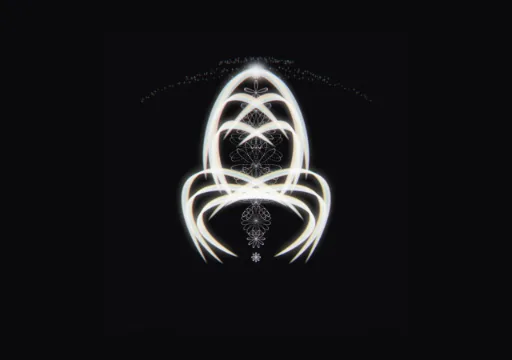
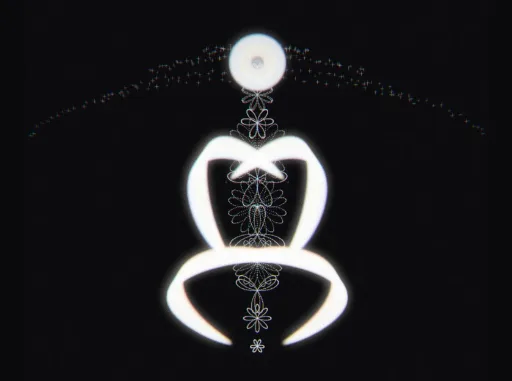
feat: the attractor gets its plate, and the Atrium's two engines go
The attractor is here for a different reason than the other three. They
are too dear to draw while a reader is choosing; it has no still branch at
all — sampleAt belongs to a live field the Chamber owns, so previewing it
would mean standing up an integrator for a thumbnail, and one frame of a
turning thing misrepresents it anyway. The frame worth showing is one a
person picked. The register is named for what it holds rather than for one
of its two reasons.

The plate arrived as a pale figure adrift in 1920x1080 of white, and the
preview slot crops to cover, so it would have read as a blank card. The
build script now trims to the figure before downscaling — bounding box
against the corner colour, which is the ground by definition, with a
margin so nothing is cut to its edge.

BLUEPRINT AND FREEDOM ARE GONE. They were the Atrium's and the Atrium is
not, so no door has reached them for some time. Removing only their
branches in the still renderer broke the Rhythmic-procedural contract
test, which was the right answer to a half-removal: the branches and the
type list are one thing, and a type that survives its renderer is a
promise nothing keeps. So both go together, with their instances and
their imports, and the contract narrows to the engines that exist.

Their config keys — blueprintClimate, blueprintMechanism, freedomRelation
— are left where they are. They belong to the Atrium's own removal rather
than to this one, and nothing reads them now.

diff --git a/src/visuals/visual-cortex.js b/src/visuals/visual-cortex.js
@@ -16,8 +16,6 @@ import { Harmonograph } from './harmonograph.js';
 import { Ostensoria } from './ostensoria.js';
 import { Apparitio } from './apparitio.js';
 import { createRemoteImage } from './remote-image.js';
-import { Blueprint } from './blueprint.js';
-import { Freedom } from './freedom.js';
 import {
     AsciiCanvasRenderer,
     AsciiFrameCompiler,
@@ -83,15 +81,26 @@ import {
 // because the 12 slots filled from fast AIC draws before the first
 // pin batch landed and then never turned over.)
 /**
- * Engines too expensive to draw while a reader is choosing, each with the
- * still that stands in for it. The register IS the list of shipped pictures,
- * so an engine can never be excluded from live drawing without something to
- * show in its place. Built by scripts/build-engine-stills.mjs.
+ * Engines depicted by a shipped still rather than drawn on the spot, each with
+ * the picture that stands for it. Two reasons put an engine here, and both are
+ * about what a reader is charged for a glance:
+ *
+ *   too dear to draw — fractal 1139ms, ostensoria 697ms, apparitio 365ms
+ *     against 50-77ms for the rest, and fractal takes its frames from the
+ *     queue the reading also draws from;
+ *   no still to draw — the attractor integrates continuously and has no
+ *     still branch at all; a live field would have to be stood up for a
+ *     thumbnail, and one frame of a turning thing misrepresents it anyway.
+ *
+ * The register IS the list of shipped pictures, so an engine can never be
+ * withheld from live drawing without something to show in its place. Built by
+ * scripts/build-engine-stills.mjs from the engines' own output.
  */
-const EXPENSIVE_STILLS = new Map([
+const SHIPPED_STILLS = new Map([
     ['fractal', 'fractal.webp'],
     ['ostensoria', 'ostensoria.webp'],
-    ['apparitio', 'apparitio.webp']
+    ['apparitio', 'apparitio.webp'],
+    ['attractor', 'attractor.webp']
 ]);
 
 /** Same-origin and absolute, because safeUrl admits no relative path. */
@@ -151,9 +160,7 @@ const GALLERY_PROCEDURAL_TYPES = Object.freeze([
     'harmonograph',
     'ostensoria',
     'apparitio',
-    'attractor',
-    'blueprint',
-    'freedom'
+    'attractor'
 ]);
 const GALLERY_PROCEDURAL_TITLES = Object.freeze({
     klee: 'Klee Engine',
@@ -165,8 +172,6 @@ const GALLERY_PROCEDURAL_TITLES = Object.freeze({
     ostensoria: 'Iris Plates',
     apparitio: 'Spectral Plates',
     attractor: 'Attractor',
-    blueprint: 'Blueprint',
-    freedom: 'Freedom Field'
 });
 
 export class VisualCortex {
@@ -180,8 +185,6 @@ export class VisualCortex {
         this.harmonograph = null;
         this.ostensoria = null;
         this.apparitio = null;
-        this.blueprint = null;
-        this.freedom = null;
         this.imageWashEl = null;
         this._activeAdaptiveImage = null;
         this._adaptiveImageHandlers = new Map();
@@ -405,8 +408,6 @@ export class VisualCortex {
             this.harmonograph = new Harmonograph();
             this.ostensoria = new Ostensoria();
             this.apparitio = new Apparitio();
-            this.blueprint = new Blueprint();
-            this.freedom = new Freedom();
         }
 
         // Native sourced imagery uses the same two-plane presentation as
@@ -1709,7 +1710,7 @@ export class VisualCortex {
         // remembered it. Each of these shows a still rendered ONCE from the
         // engine itself, so a reader still meets a picture — the engine's own
         // work, not decoration — and the reading is never charged for it.
-        const shipped = EXPENSIVE_STILLS.get(type);
+        const shipped = SHIPPED_STILLS.get(type);
         if (shipped) {
             const url = shippedStill(shipped);
             return url ? { url, still: true } : null;
@@ -1814,28 +1815,7 @@ export class VisualCortex {
                 rendered = this.apparitio.render(this._kleeCanvas);
                 canvas = this._kleeCanvas;
             }
-        } else if (type === 'blueprint' && this.blueprint && this._kleeCanvas) {
-            this._resizeKleeCanvas();
-            rendered = this.blueprint.generate(signal, undefined, {
-                climate: this.config.blueprintClimate,
-                mechanism: this.config.blueprintMechanism
-            });
-            if (asciiMode && rendered) asciiFrame = this._blueprintAsciiFrame(signal);
-            else if (rendered) {
-                rendered = this.blueprint.render(this._kleeCanvas);
-                canvas = this._kleeCanvas;
-            }
-        } else if (type === 'freedom' && this.freedom && this._kleeCanvas) {
-            this._resizeKleeCanvas();
-            rendered = this.freedom.generate(signal, undefined, {
-                relation: this.config.freedomRelation
-            });
-            if (asciiMode && rendered) asciiFrame = this._freedomAsciiFrame(signal);
-            else if (rendered) {
-                rendered = this.freedom.render(this._kleeCanvas);
-                canvas = this._kleeCanvas;
-            }
-        } else if (type === 'rockgarden' && this.rockgarden && this._kleeCanvas) {
+                } else if (type === 'rockgarden' && this.rockgarden && this._kleeCanvas) {
             this._resizeKleeCanvas();
             this.rockgarden.generateRockGarden({
                 width: this._kleeCanvas.width,

diff --git a/src/components/VisualNavigator.test.js b/src/components/VisualNavigator.test.js
@@ -503,13 +503,14 @@ describe('reader-facing state', () => {
   });
 
   it('shows a shipped still for the engines too dear to draw', async () => {
-    // Measured per still: fractal 1139ms, ostensoria 697ms, apparitio 365ms
-    // against 50-77ms for the rest — and fractal draws from the queue the
-    // reading uses, so one preview emptied it. These three are rendered once,
-    // from the engines themselves, and shipped. A reader still meets a
-    // picture; the reading is never charged for it.
+    // Two reasons put an engine here. Measured per still: fractal 1139ms,
+    // ostensoria 697ms, apparitio 365ms against 50-77ms for the rest — and
+    // fractal draws from the queue the reading uses, so one preview emptied
+    // it. The attractor is here for the other reason: it integrates
+    // continuously and has no still branch at all. Each is shipped as a
+    // picture, so a reader meets one and the reading is never charged.
     const { visualCortex } = await import('../visuals/visual-cortex.js');
-    for (const engine of ['fractal', 'ostensoria', 'apparitio']) {
+    for (const engine of ['fractal', 'ostensoria', 'apparitio', 'attractor']) {
       const work = await visualCortex.renderLeafStill(engine);
       expect(work?.url, engine).toBeTruthy();
       expect(work.url, engine).toMatch(/engine-stills\/.+\.webp$/);

diff --git a/src/visuals/visual-cortex.test.js b/src/visuals/visual-cortex.test.js
@@ -2062,22 +2062,16 @@ describe('Continuous Field (Gallery) wiring', () => {
             generate: vi.fn(() => true),
             render: vi.fn(() => true)
         };
-        cortex.blueprint = {
-            generate: vi.fn(() => true),
-            render: vi.fn(() => true)
-        };
-        cortex.freedom = {
-            generate: vi.fn(() => true),
-            render: vi.fn(() => true)
-        };
         cortex.rockgarden = {
             generateRockGarden: vi.fn(),
             renderRockGarden: vi.fn(() => true)
         };
 
+        // Blueprint and Freedom were the Atrium's, and the Atrium is gone:
+        // no door reaches them, so the contract no longer covers them.
         const types = [
             'klee', 'turrell', 'fractal', 'neural',
-            'rockgarden', 'harmonograph', 'ostensoria', 'apparitio', 'blueprint', 'freedom'
+            'rockgarden', 'harmonograph', 'ostensoria', 'apparitio'
         ];
         const works = await Promise.all(
             types.map(type => cortex._renderContinuousProceduralWork(type))
